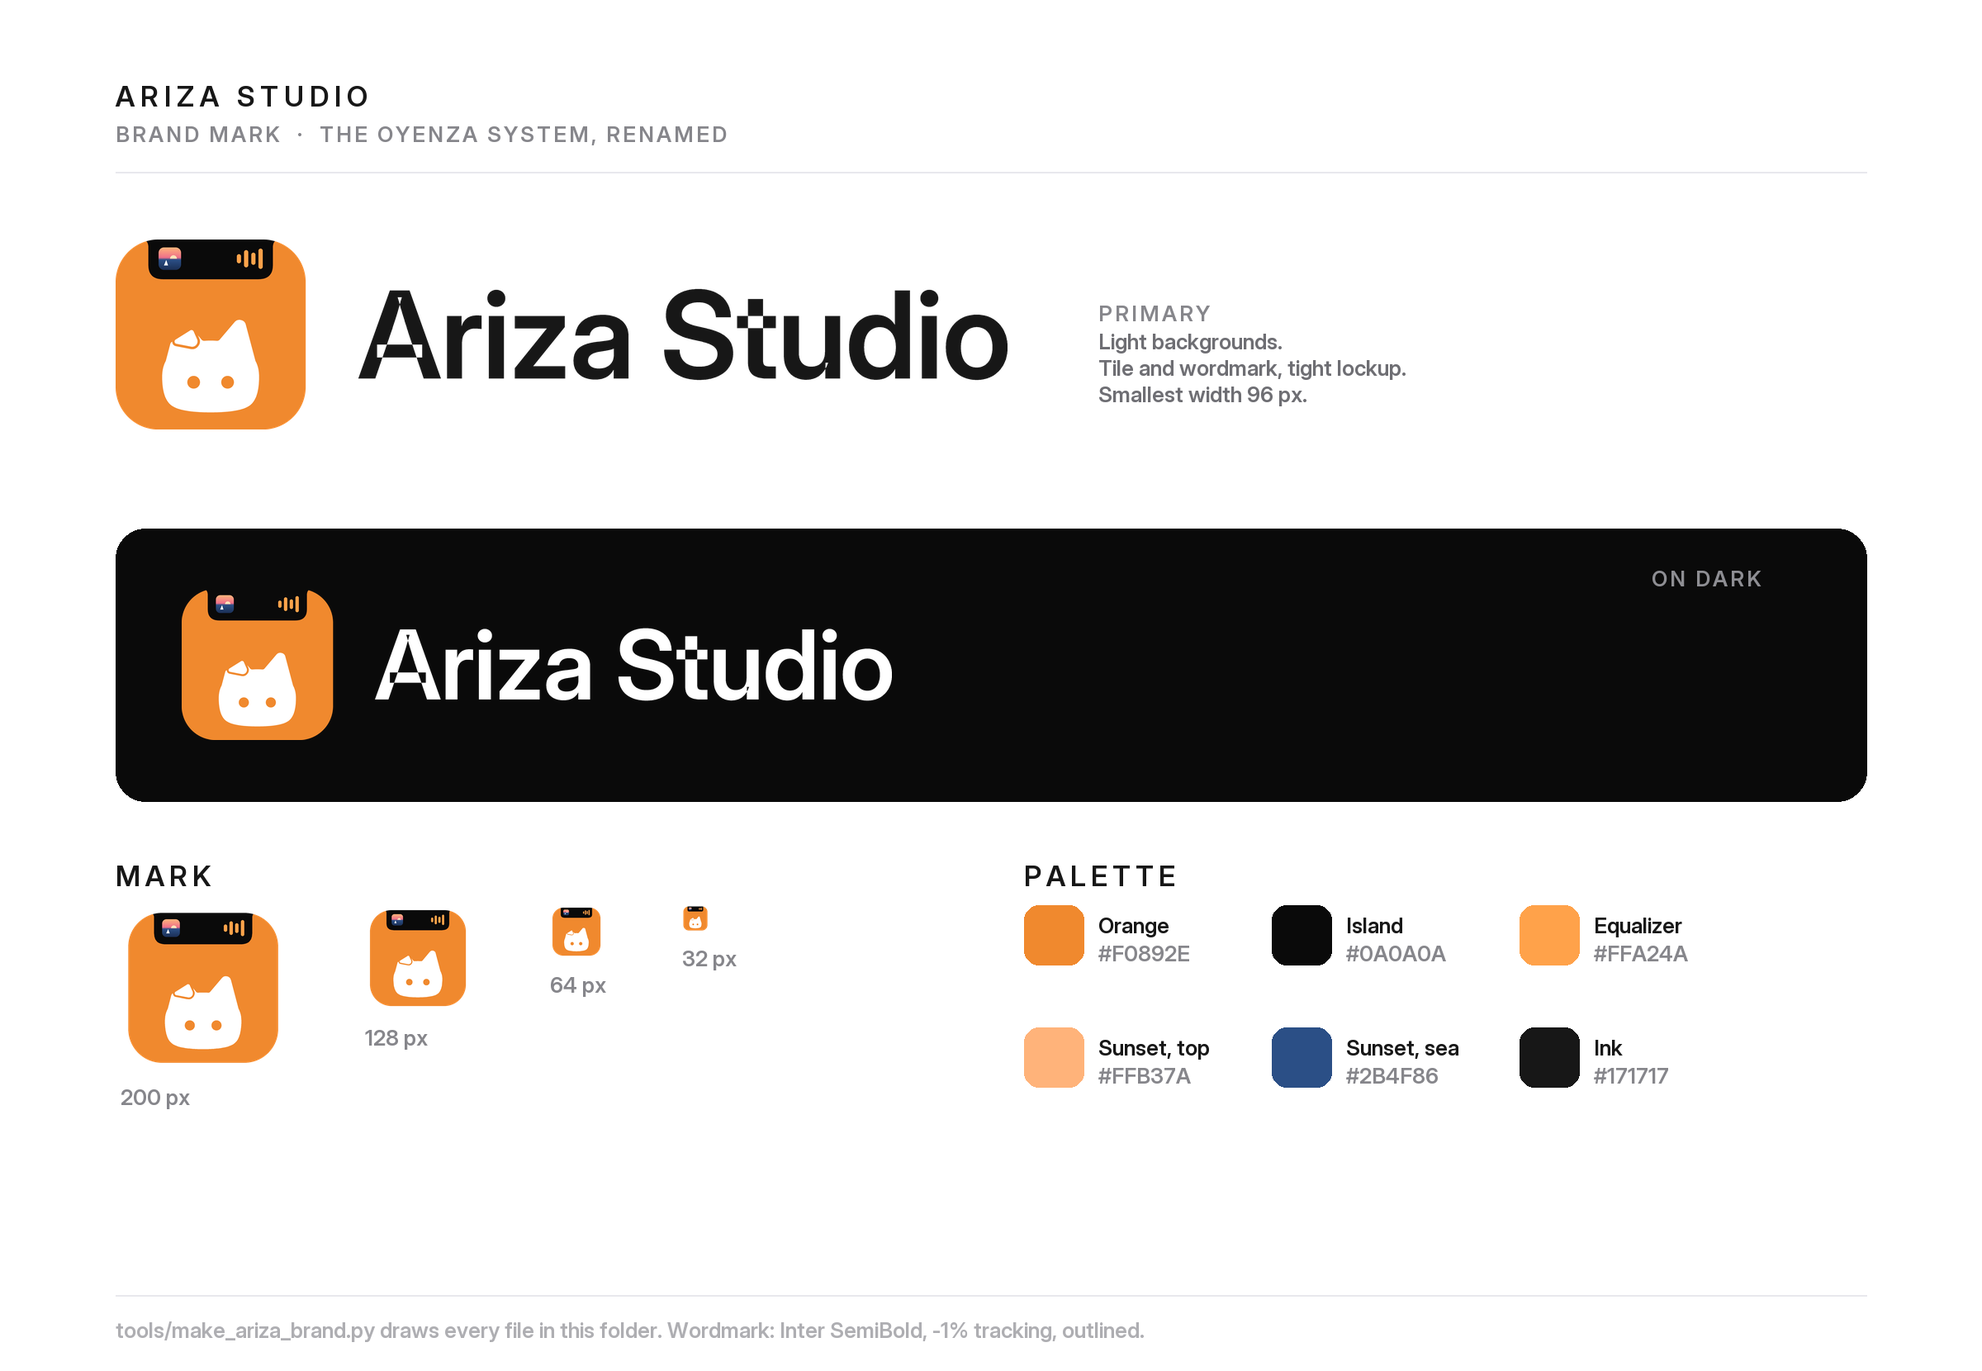
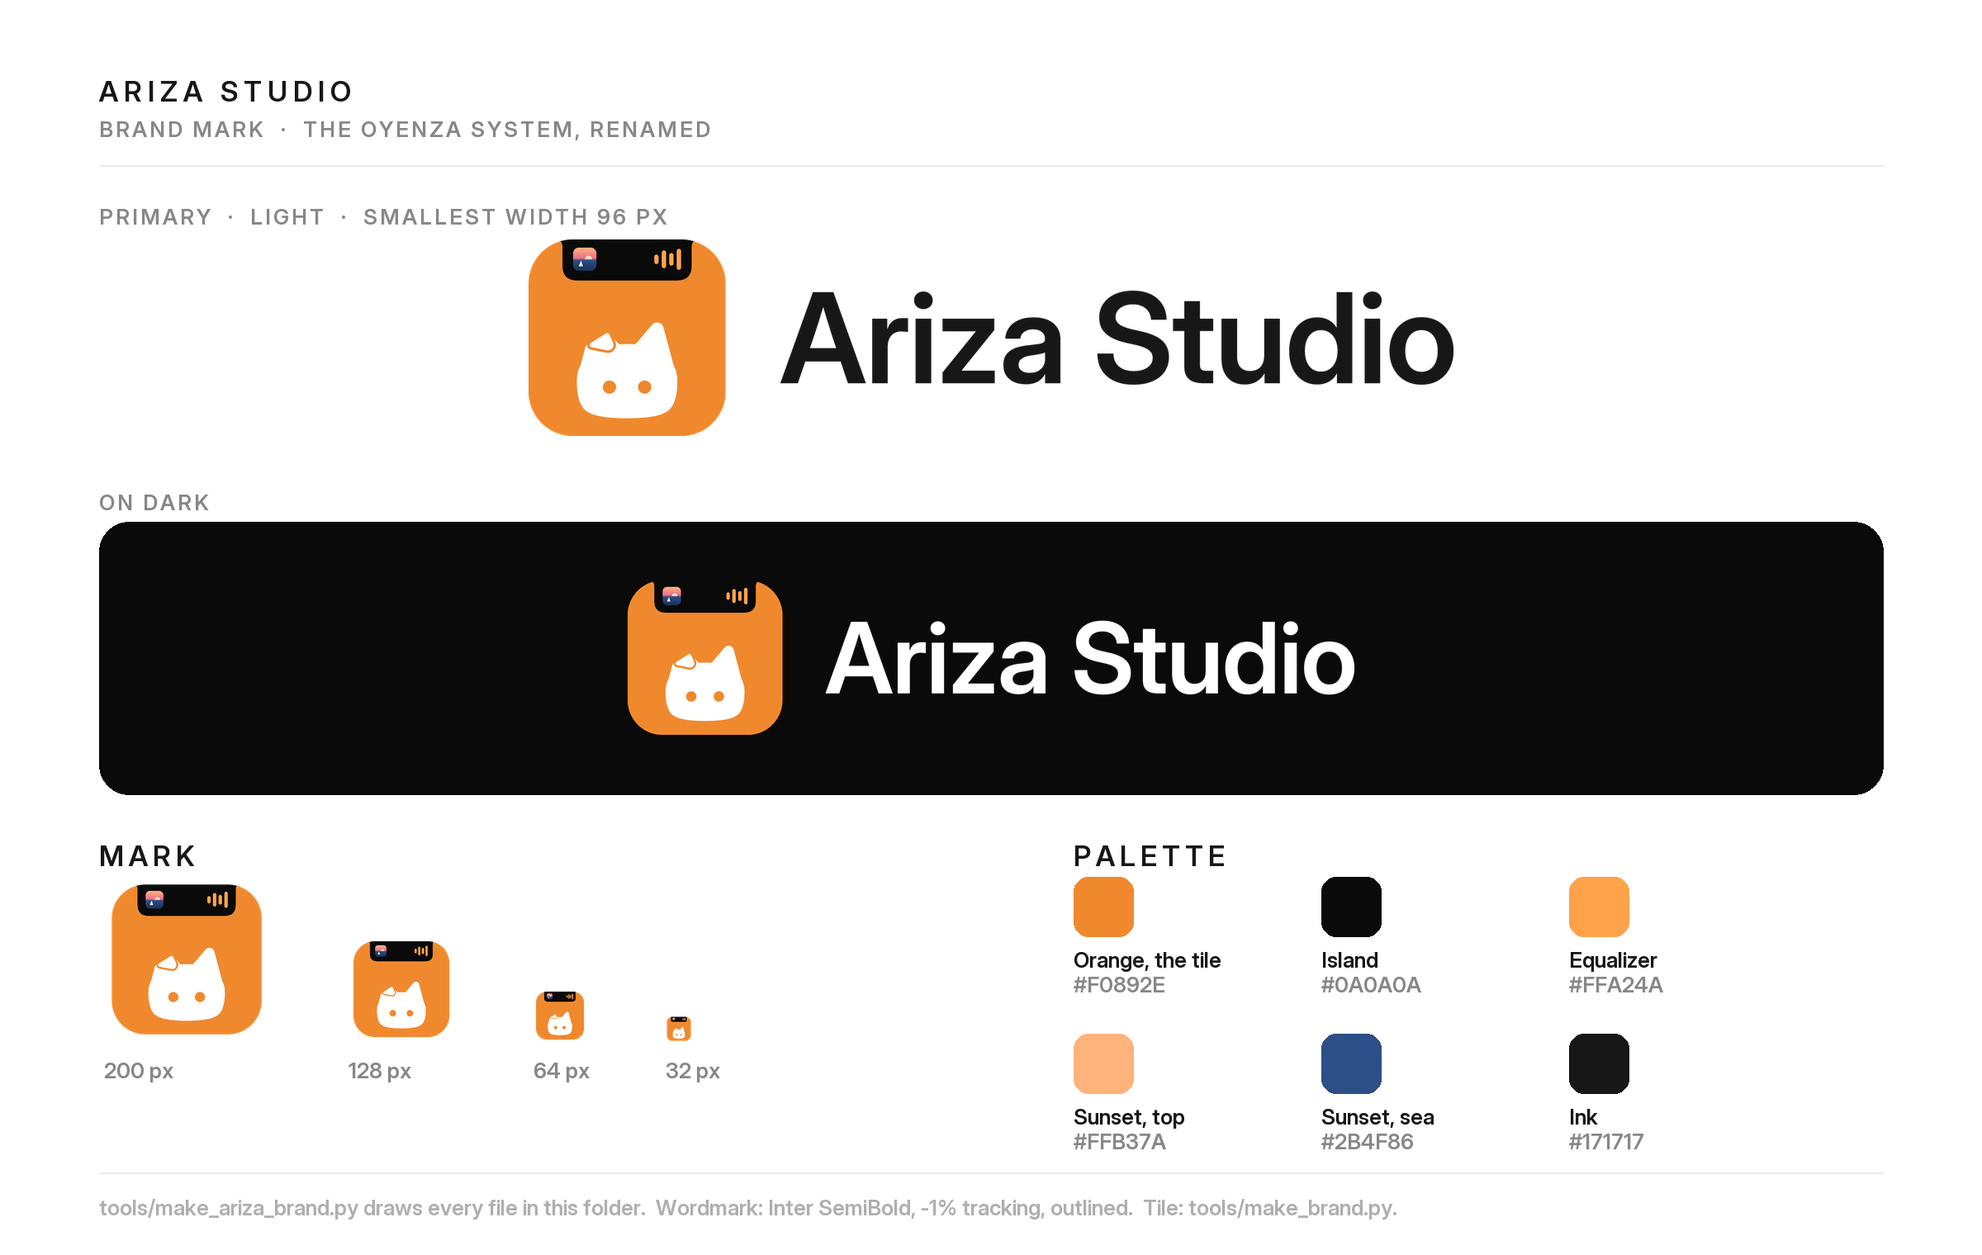
Ariza Studio: the Oyenza mark, renamed
The tile is tools/make_brand.py's own drawing, so it is the same mark pixel
for pixel; only the <title>, the ids and the wordmark change. The name is
Inter SemiBold at -1% tracking, stored as outlines, so the files need no font
installed and the letters cannot reflow. Includes the mark at seven sizes, a
Windows icon, lockups for light and dark, and a preview sheet.

tools/make_ariza_brand.py redraws everything and prints the measurements and
the ink gap between each pair of letters.

diff --git a/tools/make_ariza_brand.py b/tools/make_ariza_brand.py
@@ -11,7 +11,6 @@ Writes brand/ariza/:
   ariza-mark.svg, ariza-mark-*.png     the tile alone
   ariza-studio-icon.ico                app, window and tray icon, every size drawn on its own
   ariza-studio-lockup{,-dark}.svg/png  tile + wordmark, for light and for dark backgrounds
-  ariza-studio-stacked.svg/png         tile above wordmark, for square holes
   preview.png                          the sheet: both lockups, the mark, the palette
 
 The tile is drawn by tools/make_brand.py; this file only changes its <title> and its ids, then scales it, so
@@ -20,6 +19,7 @@ the two never drift apart.
 The wordmark is Inter (SIL OFL), the first fallback in Oyenza Studio's own font stack. SF Pro Text, which the
 site uses, may not be redistributed as outlines.
 """
+import math
 import re
 import sys
 from pathlib import Path
@@ -41,7 +41,6 @@ INSET = mb.INSET * ICON  # the tile's visible edge, inside its box
 CAP = 0.42  # cap height, as a fraction of the icon
 GAP = 0.60  # space between the tile's ink and the wordmark's ink, in cap heights
 TRACK = -0.01  # letter-spacing, in em -- the site's .side-brand
-STACK_GAP = 0.26  # space between tile and wordmark in the stacked lockup, in icon heights
 INK, INK_DARK = "#171717", "#FFFFFF"
 NAME = "Ariza Studio"
 
@@ -199,6 +198,39 @@ class Wordmark:
         return gaps
 
 
+def fill_nonzero(mask: Image.Image, polys: list[list[tuple[float, float]]], value: int = 255) -> None:
+    """Scanline fill with the nonzero winding rule: how TrueType fills its outlines.
+
+    The letters are outlined the way a font is, so a stroke that crosses another one (the bar of "A",
+    the stem of "t") has two contours over the same pixels. XOR would punch a hole there; counting the
+    windings fills the union, and keeps the counters of "a" and "o" empty.
+    """
+    W, H = mask.size
+    rows: dict[int, list[tuple[float, int]]] = {}
+    for poly in polys:
+        for (x0, y0), (x1, y1) in zip(poly, poly[1:] + poly[:1]):
+            if y0 == y1:
+                continue
+            direction = 1 if y1 > y0 else -1
+            lo, hi = min(y0, y1), max(y0, y1)
+            for y in range(max(0, math.floor(lo)), min(H, math.ceil(hi))):
+                yc = y + 0.5
+                if lo <= yc < hi:
+                    rows.setdefault(y, []).append((x0 + (yc - y0) * (x1 - x0) / (y1 - y0), direction))
+    d = ImageDraw.Draw(mask)
+    for y, cuts in rows.items():
+        cuts.sort()
+        winding, start = 0, None
+        for x, direction in cuts:
+            before = winding
+            winding += direction
+            if before == 0 and winding != 0:
+                start = x
+            elif before != 0 and winding == 0 and start is not None:
+                d.rectangle([math.floor(start), y, math.ceil(x) - 1, y], fill=value)
+                start = None
+
+
 # --- the tile ------------------------------------------------------------------------------------
 
 def icon_inner() -> str:
@@ -210,8 +242,8 @@ def icon_inner() -> str:
 
 
 def icon_svg() -> str:
-    return (f'<svg xmlns="http://www.w3.org/2000/svg" viewBox="0 0 {ICON:g} {ICON:g}">'
-            f'<title>Ariza Studio</title>{icon_inner()}</svg>\n')
+    return (f'<svg xmlns="http://www.w3.org/2000/svg" viewBox="0 0 {ICON:g} {ICON:g}" '
+            f'width="{ICON:g}" height="{ICON:g}"><title>Ariza Studio</title>{icon_inner()}</svg>\n')
 
 
 # --- layout --------------------------------------------------------------------------------------
@@ -226,46 +258,32 @@ class Plan:
     Units are lockup units: the tile's box is ICON square at (0, 0).
     """
 
-    def __init__(self, mark: Wordmark, wide: bool = True):
-        self.mark, self.wide = mark, wide
+    def __init__(self, mark: Wordmark):
         self.size = mark.size_for_cap(CAP * ICON)
         k = self.size / mark.upm
-        if wide:
-            gap = GAP * CAP * ICON - INSET - mark.ink[0] * k  # ink to ink, less both side bearings
-            self.tile = (0.0, 0.0)
-            self.x0, self.baseline = ICON + gap, ICON / 2 + (mark.ink[1] + mark.ink[3]) / 2 * k
-            text = (self.x0 + mark.ink[0] * k, self.baseline - mark.ink[3] * k,
-                    self.x0 + mark.ink[2] * k, self.baseline - mark.ink[1] * k)
-            self.box = _union((INSET, INSET, ICON - INSET, ICON - INSET), text)
-            self.text_w = text[2] - text[0]
-        else:
-            text_w = (mark.ink[2] - mark.ink[0]) * k
-            w = max(ICON, text_w)
-            self.tile = ((w - ICON) / 2, 0.0)
-            self.x0 = (w - text_w) / 2 - mark.ink[0] * k
-            self.baseline = ICON + STACK_GAP * ICON - mark.ink[1] * k
-            text = (self.x0 + mark.ink[0] * k, self.baseline - mark.ink[3] * k,
-                    self.x0 + mark.ink[2] * k, self.baseline - mark.ink[1] * k)
-            self.box = _union((self.tile[0] + INSET, INSET, self.tile[0] + ICON - INSET, ICON - INSET), text)
-            self.text_w = text_w
+        gap = GAP * CAP * ICON - INSET - mark.ink[0] * k  # ink to ink, less both side bearings
+        self.x0, self.baseline = ICON + gap, ICON / 2 + (mark.ink[1] + mark.ink[3]) / 2 * k
+        text = (self.x0 + mark.ink[0] * k, self.baseline - mark.ink[3] * k,
+                self.x0 + mark.ink[2] * k, self.baseline - mark.ink[1] * k)
+        self.box = _union((INSET, INSET, ICON - INSET, ICON - INSET), text)
+        self.text_w = text[2] - text[0]
         self.width = self.box[2] - self.box[0]
         self.height = self.box[3] - self.box[1]
 
 
-def lockup_svg(mark: Wordmark, ink: str, wide: bool = True) -> str:
-    p = Plan(mark, wide)
+def lockup_svg(mark: Wordmark, ink: str) -> str:
+    p = Plan(mark)
     x0, y0, x1, y1 = p.box
-    tile = (f'<g transform="translate({p.tile[0]:.1f} {p.tile[1]:.1f}) scale({ICON / 1024:g})">'
-            f'{icon_inner()}</g>')
+    tile = icon_inner()  # authored in the tile's own 1024 units, which is what ICON is
     text = f'<path d="{mark.path(p.size, p.x0, p.baseline)}" fill="{ink}"/>'
     return (f'<svg xmlns="http://www.w3.org/2000/svg" viewBox="{x0:.1f} {y0:.1f} {p.width:.1f} {p.height:.1f}" '
-            f'width="{p.width:.0f}" height="{p.height:.0f}"><title>Ariza Studio</title>\n'
+            f'width="{p.width:.1f}" height="{p.height:.1f}"><title>Ariza Studio</title>\n'
             f'{tile}\n{text}\n</svg>\n')
 
 
-def lockup_png(mark: Wordmark, ink: str, width: int = 2048, wide: bool = True, ss: int = 3) -> Image.Image:
+def lockup_png(mark: Wordmark, ink: str, width: int = 2048, ss: int = 3) -> Image.Image:
     """The lockup from the same geometry as the svg: drawn at ss x, then LANCZOS down."""
-    p = Plan(mark, wide)
+    p = Plan(mark)
     k = width / p.width * ss
     cw, ch = round(p.width * k), round(p.height * k)
     ox, oy = p.box[0], p.box[1]
@@ -273,19 +291,14 @@ def lockup_png(mark: Wordmark, ink: str, width: int = 2048, wide: bool = True, s
 
     tile_size = round(ICON * k)
     tile = mb.draw_logo(tile_size, ss=2)
-    canvas.alpha_composite(tile, (round(p.tile[0] * k - ox * k), round(p.tile[1] * k - oy * k)))
+    canvas.alpha_composite(tile, (-round(ox * k), -round(oy * k)))
 
     mask = Image.new("L", (cw, ch), 0)
-    acc = Image.new("1", (cw, ch), 0)
-    for poly in mark.placed(p.size * k, (p.x0 - ox) * k, (p.baseline - oy) * k):
-        layer = Image.new("1", (cw, ch), 0)
-        ImageDraw.Draw(layer).polygon(poly, fill=1)
-        acc = ImageChops.logical_xor(acc, layer)
-    mask.paste(255, (0, 0), acc.convert("L"))
+    fill_nonzero(mask, mark.placed(p.size * k, (p.x0 - ox) * k, (p.baseline - oy) * k))
     rgb = Image.new("RGBA", (cw, ch), ink)
     rgb.putalpha(mask)
     canvas.alpha_composite(rgb)
-    return canvas.resize((round(p.width), round(p.height)), Image.LANCZOS)
+    return canvas.resize((round(width), round(width * p.height / p.width)), Image.LANCZOS)
 
 
 # --- preview sheet -------------------------------------------------------------------------------
@@ -298,53 +311,57 @@ def tracked(draw, xy, text, font, fill, tracking=0.0):
         x += draw.textlength(ch, font=font) + tracking
 
 
-def preview(lab, small, mark: Wordmark, light: Image.Image, dark: Image.Image, icons: dict) -> Image.Image:
-    W, H, M = 2400, 1660, 140
+def preview(lab, small, light: Image.Image, dark: Image.Image, icons: dict) -> Image.Image:
+    """The sheet: each lockup under its own label, then the mark and the palette."""
+    W, H, M = 2400, 1520, 120
     sheet = Image.new("RGBA", (W, H), "#FFFFFF")
     d = ImageDraw.Draw(sheet)
 
-    tracked(d, (M, 96), "ARIZA STUDIO", lab, "#171717", 7)
-    tracked(d, (M, 146), "BRAND MARK  ·  THE OYENZA SYSTEM, RENAMED", small, "#86868B", 3)
-    d.line([(M, 208), (W - M, 208)], fill="#E8E8ED", width=2)
+    tracked(d, (M, 90), "ARIZA STUDIO", lab, "#171717", 7)
+    tracked(d, (M, 140), "BRAND MARK  ·  THE OYENZA SYSTEM, RENAMED", small, "#86868B", 3)
+    d.line([(M, 200), (W - M, 200)], fill="#E8E8ED", width=2)
 
-    # primary lockup and its note
-    lw = 1080
+    # the lockup on light
+    tracked(d, (M, 246), "PRIMARY  ·  LIGHT  ·  SMALLEST WIDTH 96 PX", small, "#86868B", 3)
+    lw = 1120
     lh = round(light.height * lw / light.width)
-    sheet.alpha_composite(light.resize((lw, lh), Image.LANCZOS), (M, 290))
-    note_x, note_y = M + lw + 110, 290 + lh // 2 - 42
-    tracked(d, (note_x, note_y), "PRIMARY", small, "#86868B", 3)
-    for i, line in enumerate(["Light backgrounds.", "Tile and wordmark, tight lockup.", "Smallest width 96 px."]):
-        d.text((note_x, note_y + 34 + i * 32), line, font=small, fill="#6E6E73")
+    sheet.alpha_composite(light.resize((lw, lh), Image.LANCZOS), ((W - lw) // 2, 290))
 
-    # dark band
-    band = 640
-    d.rounded_rectangle([M, band, W - M, band + 330], radius=36, fill="#0A0A0A")
-    dw = 860
+    # the lockup on dark
+    tracked(d, (M, 592), "ON DARK", small, "#86868B", 3)
+    d.rounded_rectangle([M, 632, W - M, 962], radius=36, fill="#0A0A0A")
+    dw = 880
     dh = round(dark.height * dw / dark.width)
-    sheet.alpha_composite(dark.resize((dw, dh), Image.LANCZOS), (M + 80, band + (330 - dh) // 2))
-    tracked(d, (W - M - 260, band + 44), "ON DARK", small, "#8E8E93", 3)
+    sheet.alpha_composite(dark.resize((dw, dh), Image.LANCZOS), ((W - dw) // 2, 632 + (330 - dh) // 2))
 
-    # the mark and the palette
-    y = band + 400
-    tracked(d, (M, y), "MARK", lab, "#171717", 6)
-    x = M + 6
+    # the mark, at the sizes an icon is asked for
+    tracked(d, (M, 1016), "MARK", lab, "#171717", 6)
+    x, foot = M + 6, 1262  # every icon sits on the same line, so the captions line up too
     for n in (200, 128, 64, 32):
-        sheet.alpha_composite(icons[n], (x, y + 56))
-        d.text((x, y + 56 + n + 16), f"{n} px", font=small, fill="#86868B")
+        sheet.alpha_composite(icons[n], (x, foot - n))
+        d.text((x, foot + 18), f"{n} px", font=small, fill="#86868B")
         x += n + 96
 
-    px, py = 1240, y + 56
-    tracked(d, (px, y), "PALETTE", lab, "#171717", 6)
-    for i, (hexv, name) in enumerate([("#F0892E", "Orange"), ("#0A0A0A", "Island"), ("#FFA24A", "Equalizer"),
-                                      ("#FFB37A", "Sunset, top"), ("#2B4F86", "Sunset, sea"), ("#171717", "Ink")]):
-        cx, cy = px + (i % 3) * 300, py + (i // 3) * 148
+    # the palette
+    px = 1300
+    tracked(d, (px, 1016), "PALETTE", lab, "#171717", 6)
+    swatches = [("#F0892E", "Orange, the tile"), ("#0A0A0A", "Island"), ("#FFA24A", "Equalizer"),
+                ("#FFB37A", "Sunset, top"), ("#2B4F86", "Sunset, sea"), ("#171717", "Ink")]
+    for i, (hexv, name) in enumerate(swatches):
+        cx, cy = px + (i % 3) * 300, 1062 + (i // 3) * 190
         d.rounded_rectangle([cx, cy, cx + 72, cy + 72], radius=18, fill=hexv)
-        d.text((cx + 90, cy + 8), name, font=small, fill="#171717")
-        d.text((cx + 90, cy + 42), hexv.upper(), font=small, fill="#86868B")
+        d.text((cx, cy + 84), name, font=small, fill="#171717")
+        d.text((cx, cy + 114), hexv.upper(), font=small, fill="#86868B")
+        for text in (name, hexv.upper()):  # the column is 300 wide; a longer name would run into the next one
+            if d.textlength(text, font=small) > 292:
+                print(f"  ! palette label too wide: {text!r}")
 
-    d.line([(M, H - 92), (W - M, H - 92)], fill="#E8E8ED", width=2)
-    d.text((M, H - 66), "tools/make_ariza_brand.py draws every file in this folder. Wordmark: Inter SemiBold, "
-                        "-1% tracking, outlined.", font=small, fill="#AEAEB2")
+    d.line([(M, H - 100), (W - M, H - 100)], fill="#E8E8ED", width=2)
+    note = ("tools/make_ariza_brand.py draws every file in this folder.  Wordmark: Inter SemiBold, -1% tracking, "
+            "outlined.  Tile: tools/make_brand.py.")
+    while d.textlength(note, font=small) > W - 2 * M and len(note) > 40:  # keep the footer inside the margins
+        note = note[:note.rindex(" ")] + "."
+    d.text((M, H - 74), note, font=small, fill="#AEAEB2")
     return sheet.convert("RGB")
 
 
@@ -369,18 +386,16 @@ def main() -> int:
 
     OUT.joinpath("ariza-studio-lockup.svg").write_text(lockup_svg(mark, INK))
     OUT.joinpath("ariza-studio-lockup-dark.svg").write_text(lockup_svg(mark, INK_DARK))
-    OUT.joinpath("ariza-studio-stacked.svg").write_text(lockup_svg(mark, INK, wide=False))
     light = lockup_png(mark, INK, 2048)
     dark = lockup_png(mark, INK_DARK, 2048)
     light.save(OUT / "ariza-studio-lockup.png", optimize=True)
     dark.save(OUT / "ariza-studio-lockup-dark.png", optimize=True)
     lockup_png(mark, INK, 1024).save(OUT / "ariza-studio-lockup-1024.png", optimize=True)
-    lockup_png(mark, INK, 1600, wide=False).save(OUT / "ariza-studio-stacked.png", optimize=True)
 
     lab = ImageFont.truetype(str(CACHE / "Inter-600.ttf"), 34)
     small = ImageFont.truetype(str(CACHE / "Inter-600.ttf"), 26)
     icons = {200: mb.draw_logo(200, ss=6), **{n: pngs[n] for n in (128, 64, 32)}}
-    sheet = preview(lab, small, mark, light, dark, icons)
+    sheet = preview(lab, small, light, dark, icons)
     sheet.save(OUT / "preview.png", optimize=True)
 
     for f in sorted(OUT.iterdir()):

diff --git a/brand/ariza/README.md b/brand/ariza/README.md
@@ -1,0 +1,82 @@
+# Ariza Studio brand files
+
+Ariza Studio's mark in the Oyenza Studio system: the same orange tile, the island hanging from its top
+edge playing music (album cover and equalizer, as on the real island), the white Oyen below it. Only the
+name changed — it reads **Ariza Studio**, set the way the site sets *Oyenza Studio*: semibold, −0.01em
+tracking, ink `#171717`.
+
+The tile is drawn by [`tools/make_brand.py`](../../tools/make_brand.py), so it is the same mark, pixel for
+pixel; [`tools/make_ariza_brand.py`](../../tools/make_ariza_brand.py) only swaps the `<title>`, the ids and
+the wordmark.
+
+| File | What |
+|---|---|
+| `ariza-mark.svg`, `ariza-mark-{16,32,64,128,256,512,1024}.png` | The tile alone: favicon, app icon, avatar, tray |
+| `ariza-studio-icon.ico` | The same tile as a Windows icon, every size drawn on its own (16–256) |
+| `ariza-studio-lockup.svg`, `.png`, `-1024.png` | Tile and wordmark, for light backgrounds |
+| `ariza-studio-lockup-dark.svg`, `.png` | The same for dark backgrounds; the tile is unchanged, the name turns white |
+| `preview.png` | The sheet: both lockups, the mark at 200/128/64/32 px, the palette |
+
+The PNGs are drawn from the same geometry as the SVGs, three times over and then scaled down, so the two
+never disagree. They are 2048 and 1024 pixels wide.
+
+## The lockup
+
+Measured in the tile's own units (its box is 1024 square, its visible ink 927.7):
+
+| | |
+|---|---|
+| Lockup | 4355 × 927.7, so **4.69 : 1** |
+| Wordmark cap height | 430 (0.42 of the tile) |
+| Font size | 591.1 (0.577 of the tile) |
+| Gap, tile ink to name ink | 258 (0.60 cap heights) |
+| Wordmark ink | 3169.2 wide |
+| Baseline | the name's ink is centred on the tile's box centre |
+
+The name is Inter SemiBold (`opsz` 32, `wght` 600), −1 % tracking, stored as outlines: **no font is needed
+to open these files**, and the letters cannot reflow.
+
+**Clear space.** Keep at least 232 units (a quarter of the tile) clear on every side. Nothing else goes in
+that band: no second line, no tagline, no border.
+
+**Smallest sizes.** Lockup 96 px wide; below that the name stops being readable, so use the mark alone. The
+mark works down to 16 px (it is the favicon), but the eyes and the equalizer disappear under 32 px — that is
+how the Oyenza tile behaves too.
+
+## Colour
+
+| | Hex | Where |
+|---|---|---|
+| Orange | `#F0892E` | The tile |
+| Island | `#0A0A0A` | The island, hanging from the tile's top edge |
+| Equalizer | `#FFA24A` | The four bars |
+| Sunset | `#FFB37A` → `#F0708A` → `#2B4F86` → `#1B2F55` | The album cover, top to bottom |
+| Ink | `#171717` | The name on light |
+| White | `#FFFFFF` | The name on dark, and Oyen |
+
+The name is `#171717` or `#FFFFFF`; never the orange, and never a gradient. The tile never changes colour,
+never gets an outline, and never sits on a busy photograph without the clear space above.
+
+## What not to do
+
+- Don't set the name in another typeface, or re-space it. The tracking is part of the mark.
+- Don't redraw the tile, the cat or the island in another style: they come from
+  [`docs/brand`](../../docs/brand), where the rule is that Oyen's head is exactly the shape of the mark.
+- Don't put the tile inside another shape, shadow it, or rotate it.
+- Don't rebuild the lockup by placing `ariza-mark.png` next to live text: the gap and the baseline are
+  measured, and live text drifts with the font.
+
+## Redrawing
+
+```sh
+python3 -m pip install --user fonttools   # Pillow is already needed by tools/make_brand.py
+python3 tools/make_ariza_brand.py
+```
+
+It writes every file in this folder and prints the measurements above, plus the ink gap between each pair
+of letters, so a tracking change that collides two letters shows up as a number rather than as a look.
+
+The wordmark needs Inter Variable (`Inter-VariableFont_opsz,wght.ttf`, SIL OFL) in `~/Library/Fonts`,
+`/Library/Fonts` or this folder. SF Pro Text, which the site uses, cannot be redistributed as outlines.
+
+These files are not covered by the MIT license that covers the code, like the rest of `docs/brand`.
